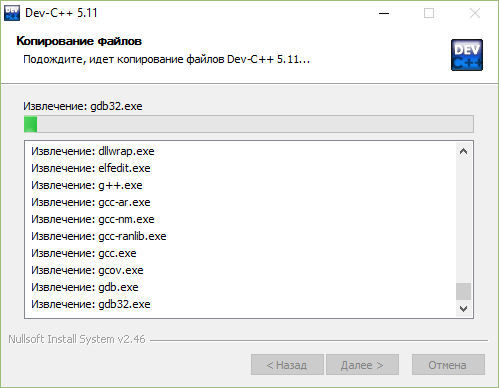
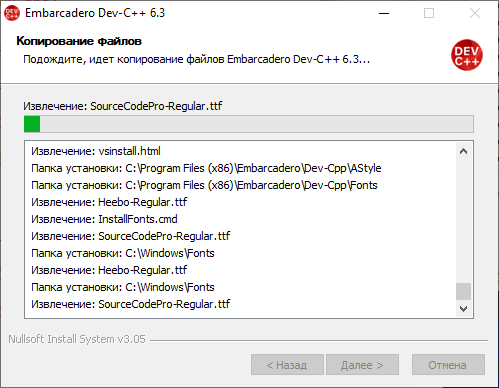
Update article "Сложение двух чисел в Dev-C++"

diff --git a/2016-02-15-add-2-num-devcpp/2016-02-15-add-2-num-devcpp.md b/2016-02-15-add-2-num-devcpp/2016-02-15-add-2-num-devcpp.md
@@ -1,17 +1,24 @@
 ---
 categories: [it, programming]
 tags: [Dev C++, C++, Сложение двух чисел, Установка]
+update: 2021-08-19
 ---
 
-# Сложение двух чисел в Dev-C++ (консольное приложение)
+# Сложение двух чисел в Dev-C++
 
 В статье рассказывается как создать консольное приложения сложения двух чисел Win32 в Dev-C++.
 
 ## Установка программы
 
-Скачиваем программу на сайте <https://sourceforge.net/projects/orwelldevcpp/>:
+Раньше программа скачивалась на сайте <https://sourceforge.net/projects/orwelldevcpp/>. Это можно сделать и сейчас, но программа не обновлялась там с 2015 года, поэтому возможности современного C++ не поддерживаются. Например, `to_string()` работать не будет.
 
-![Скачивание установщика](img/download.png)
+К счастью Embarcadero (которая занимается Delphi и C++ Builder) подхватила проект и его поддерживает. Поэтому идем на сайт <https://www.embarcadero.com/ru/free-tools/dev-cpp/free-download>, где заполняем форму какими-нибудь данными:
+
+![Скачивание установщика](img/download_01.png)
+
+Скачается архив, в котором после распаковки окажется установщик:
+
+![Архив и его содержимое](img/download_02.png)
 
 Под спойлером находится краткое описание установки программы.
 
@@ -37,11 +44,50 @@ tags: [Dev C++, C++, Сложение двух чисел, Установка]
 
 ![Настройка внешнего вида](img/config_02.png)
 
-![Окончание настройки программы](img/config_03.png)
+Лично я ставлю в качестве шрифта [JetBrains Mono](https://www.jetbrains.com/ru-ru/lp/mono/)
+
+![Настройка внешнего вида](img/config_03.png)
+
+![Окончание настройки программы](img/config_04.png)
 
 ---
 
-## Создание проекта (I способ)
+## Создание проекта
+
+Если вы пользуетесь Dev C++ для обучения, то вам будет достаточно работать с одним файлом исходного кода.
+
+Создайте файл исходного кода:
+
+![Создание файла исходного кода](img/new-source_01.png)
+
+![Создание файла исходного кода](img/new-source_02.png)
+
+Напишите болванку приложения:
+
+```cpp
+#include <iostream>
+
+using namespace std;
+
+int main () {
+
+  return 0;
+}
+```
+
+![Болванка кода на C++](img/new-source_03.png)
+
+Сохраните где-нибудь файл:
+
+![Сохранение файла исходного кода](img/new-source_04.png)
+
+## Создание проекта (II способ)
+
+Если вы хотите создавать проект полноценный с множеством файлов и так далее, то проект нужно создавать нормально. Об этом под спойлером.
+
+---
+
+**Установка Dev-C++** <!-- !details -->
 
 Открываем программу `Dev-C++`:
 
@@ -63,42 +109,17 @@ tags: [Dev C++, C++, Сложение двух чисел, Установка]
 
 ![Созданный проект](img/new-project_05.png)
 
-## Создание проекта (II способ)
+Если вам нужно закрыть проект, но не сам Dev C++, то закройте его так:
 
-Если вы пользуетесь Dev C++ для обучения, то вам будет достаточно работать с одним файлом исходного кода. Для этого проект можно не создавать.
+![Созданный проект](img/new-project_06.png)
 
-Создайте файл исходного кода:
-
-![Создание файла исходного кода](img/new-source_01.png)
-
-Напишите болванку приложения:
-
-```cpp
-#include <iostream>
-
-using namespace std;
-
-int main () {
-
-  return 0;
-}
-```
-
-Сохраните где-нибудь файл:
-
-![Сохранение файла исходного кода](img/new-source_02.png)
+---
 
 ## Написание кода
 
-Добавим строчку:
+Перейдем теперь к написанию программы сложения двух чисел.
 
-```cpp
-using namespace std;
-```
-
-![Подключение стандартной библиотеки C++](img/std.png)
-
-Теперь в функции `main` добавьте код:
+В функции `main` добавьте код:
 
 ```cpp
 int a, b, c;
@@ -121,11 +142,9 @@ cout << "Sum " << c << endl;
 ```cpp
 #include <iostream>
 
-/* run this program using the console pauser or add your own getch, system("pause") or input loop */
-
 using namespace std;
 
-int main(int argc, char** argv) {
+int main () {
 
   int a, b, c;
 
@@ -142,6 +161,30 @@ int main(int argc, char** argv) {
   return 0;
 }
 ```
+
+На всякий случай упрощенный вариант программы:
+
+```cpp
+#include <iostream>
+
+using namespace std;
+
+int main () {
+
+  int a, b, c;
+
+  cin >> a >> b;
+  c = a + b;
+
+  cout << c;
+
+  return 0;
+}
+```
+
+Сохраните файл:
+
+![Сохранение файла исходного кода](img/new-source_04.png)
 
 ## Запуск программы
 
@@ -160,8 +203,6 @@ int main(int argc, char** argv) {
 ![Запущенное приложение](img/run_04.png)
 
 ## Отличия от консольной программы Visual Studio
-
-Так как данным гайдом будут пользоваться мои студенты, которые в основном будут программировать в Visual Studio, то ниже показано чем отличаются коды в двух программах, если всё описать максимально топорно и без объяснений.
 
 Вам в программе не надо будет писать строчки:
 
@@ -185,7 +226,7 @@ system("pause");
 int _tmain(int argc, _TCHAR* argv[])
 ```
 
-Название главной функции в Dev C++ выглядит так:
+Название главной функции в Dev C++ выглядит так (если создавать через проект):
 
 ```cpp
 int main(int argc, char** argv)
